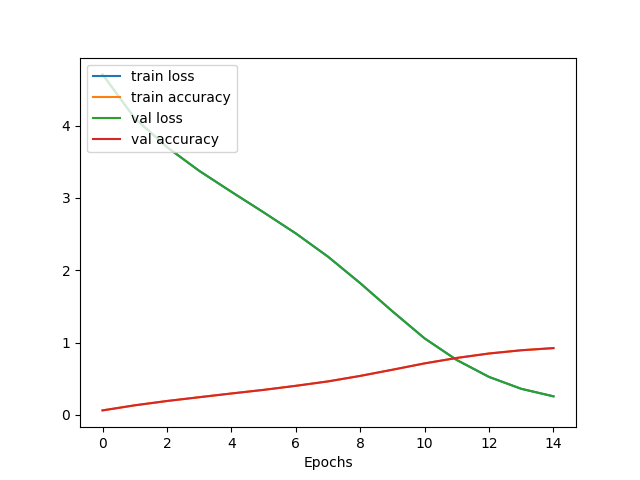
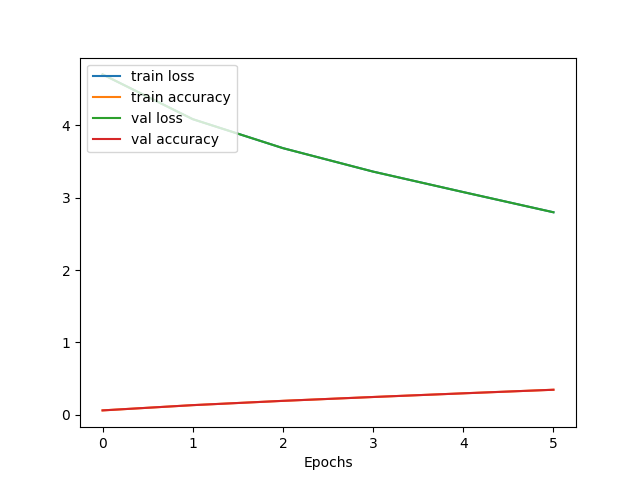
some adjustments

diff --git a/deep_learning/train.py b/deep_learning/train.py
@@ -19,7 +19,7 @@ def train(model, images, labels, timages, tlabels, classes):
   BS = 256
   #epochs = 250 # full dataset
   #epochs = 100 # food-101
-  epochs = 15  # food-251
+  epochs = 6  # food-251
 
   try:
     for epoch in range(epochs):
@@ -48,9 +48,9 @@ def train(model, images, labels, timages, tlabels, classes):
         #accuracies.append(accuracy)
         epoch_losses.append(loss)
         epoch_acc.append(accuracy)
-        t.set_description("loss %.2f accuracy %.2f"%(loss, accuracy))
+        t.set_description("t_loss %.2f t_accuracy %.2f"%(loss, accuracy))
       
-      # TODO: implement early stopping (best_vloss, etc)
+      # TODO: implement automated early stopping (best_vloss, etc)
       # eval
       for i in (t := trange(0, len(timages), BS)):
         # prep tensor/batch
@@ -66,7 +66,7 @@ def train(model, images, labels, timages, tlabels, classes):
         loss = loss.item()
         epoch_vlosses.append(loss)
         epoch_vacc.append(accuracy)
-        t.set_description("loss %.2f accuracy %.2f"%(loss, accuracy))
+        t.set_description("v_loss %.2f v_accuracy %.2f"%(loss, accuracy))
 
       print("Epoch average training loss: %.2f"%(np.array(epoch_losses).mean()))
       print("Epoch average training accuracy: %.2f"%(np.array(epoch_acc).mean()))
